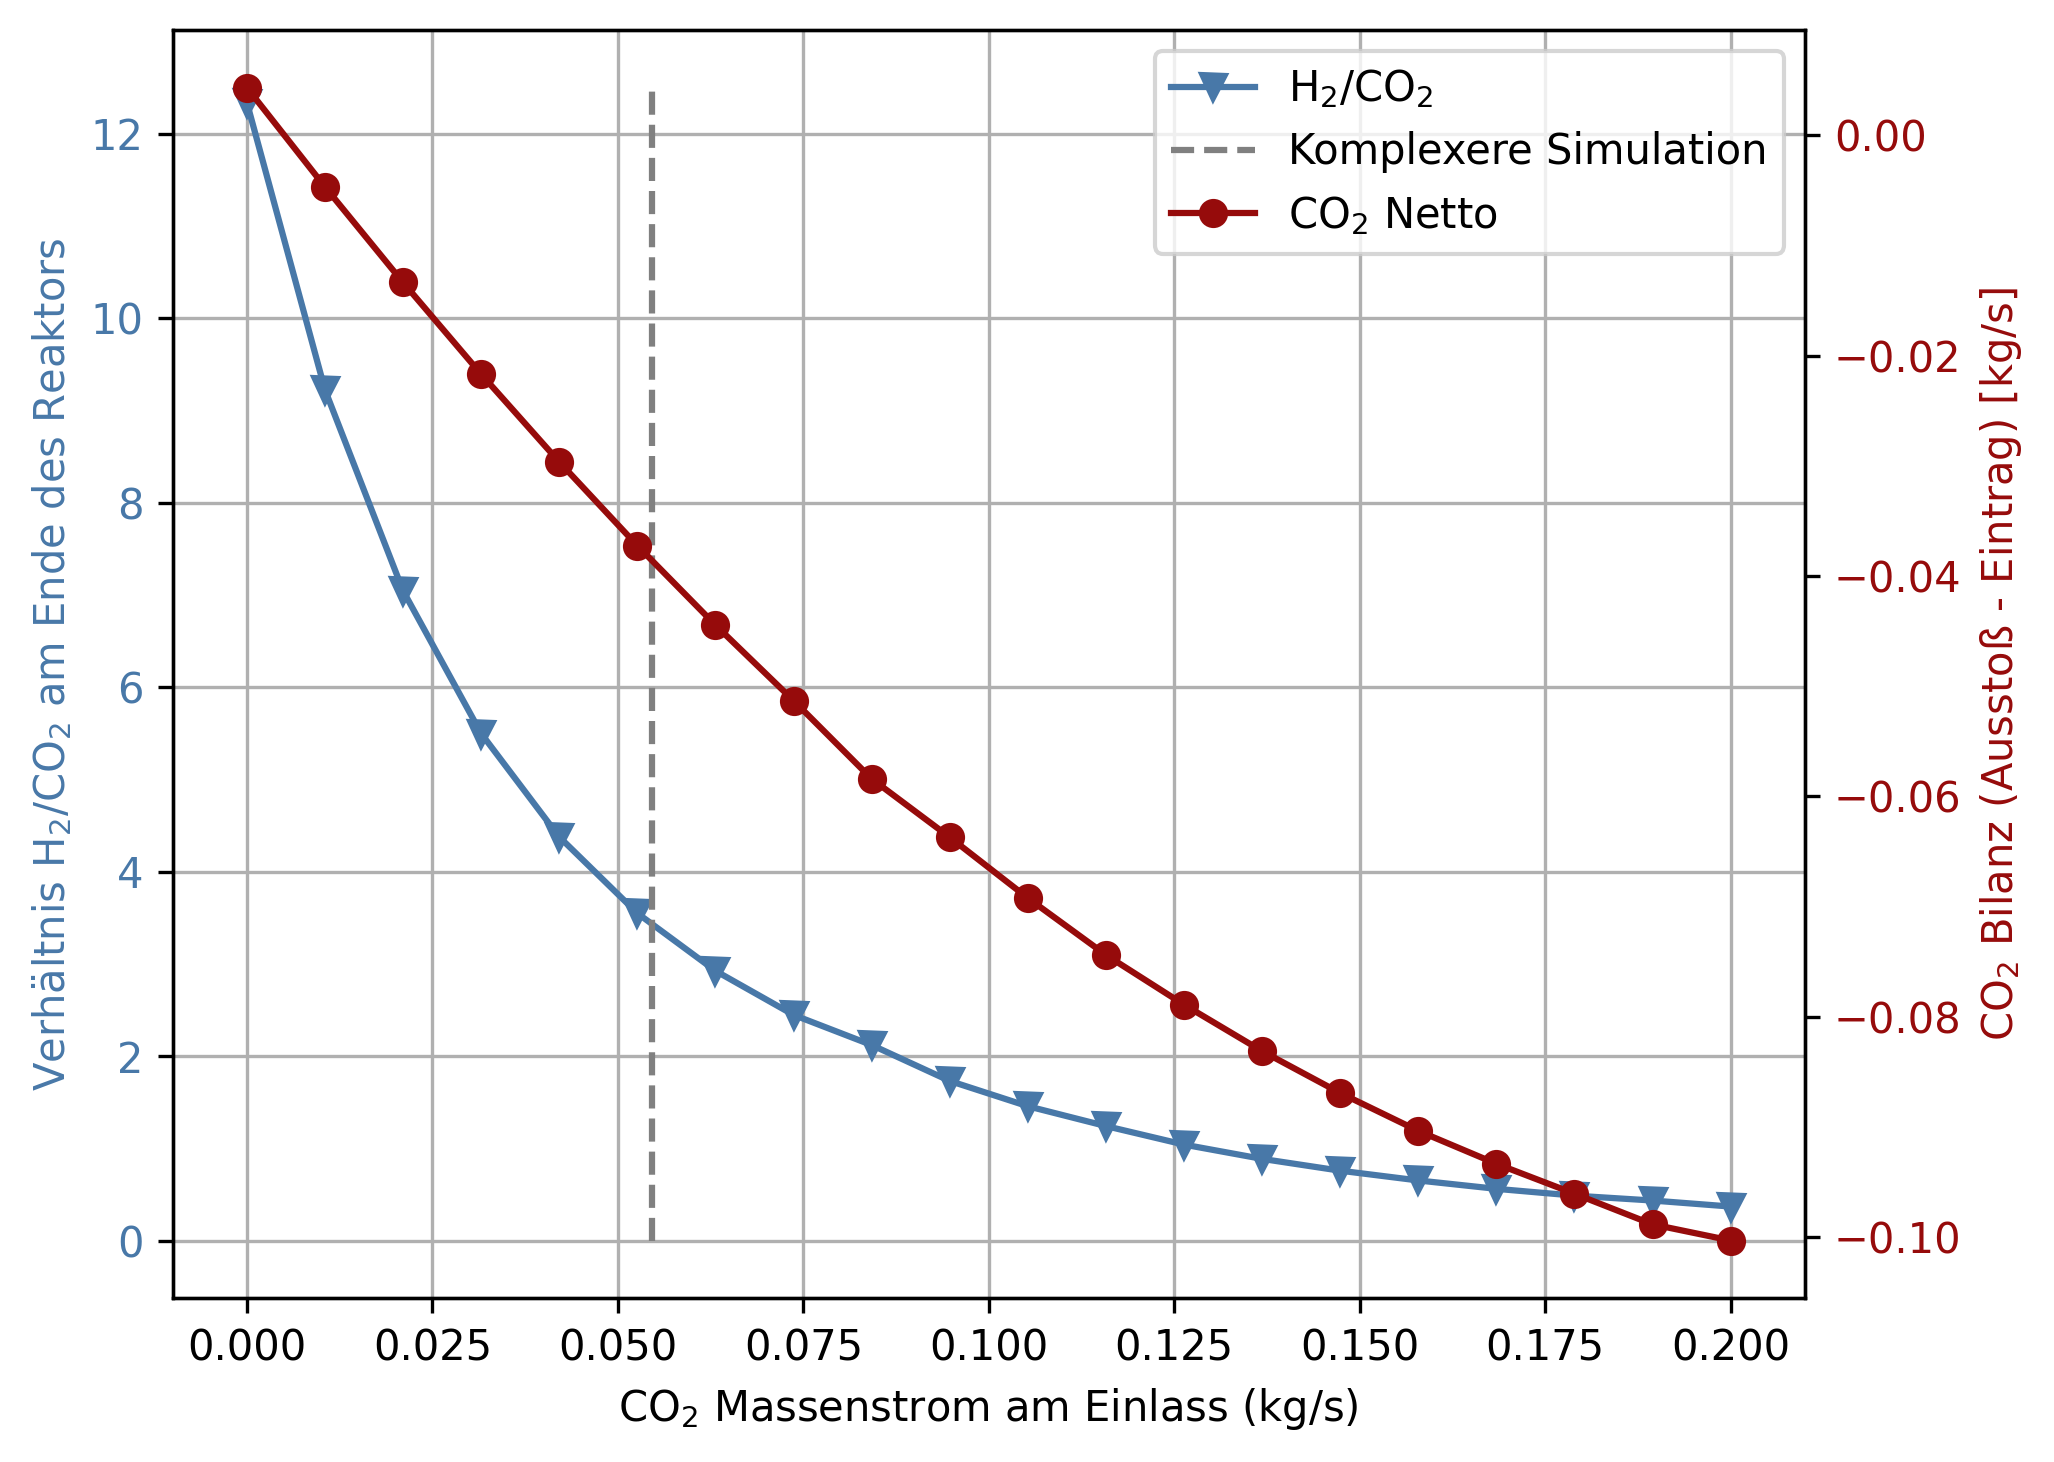
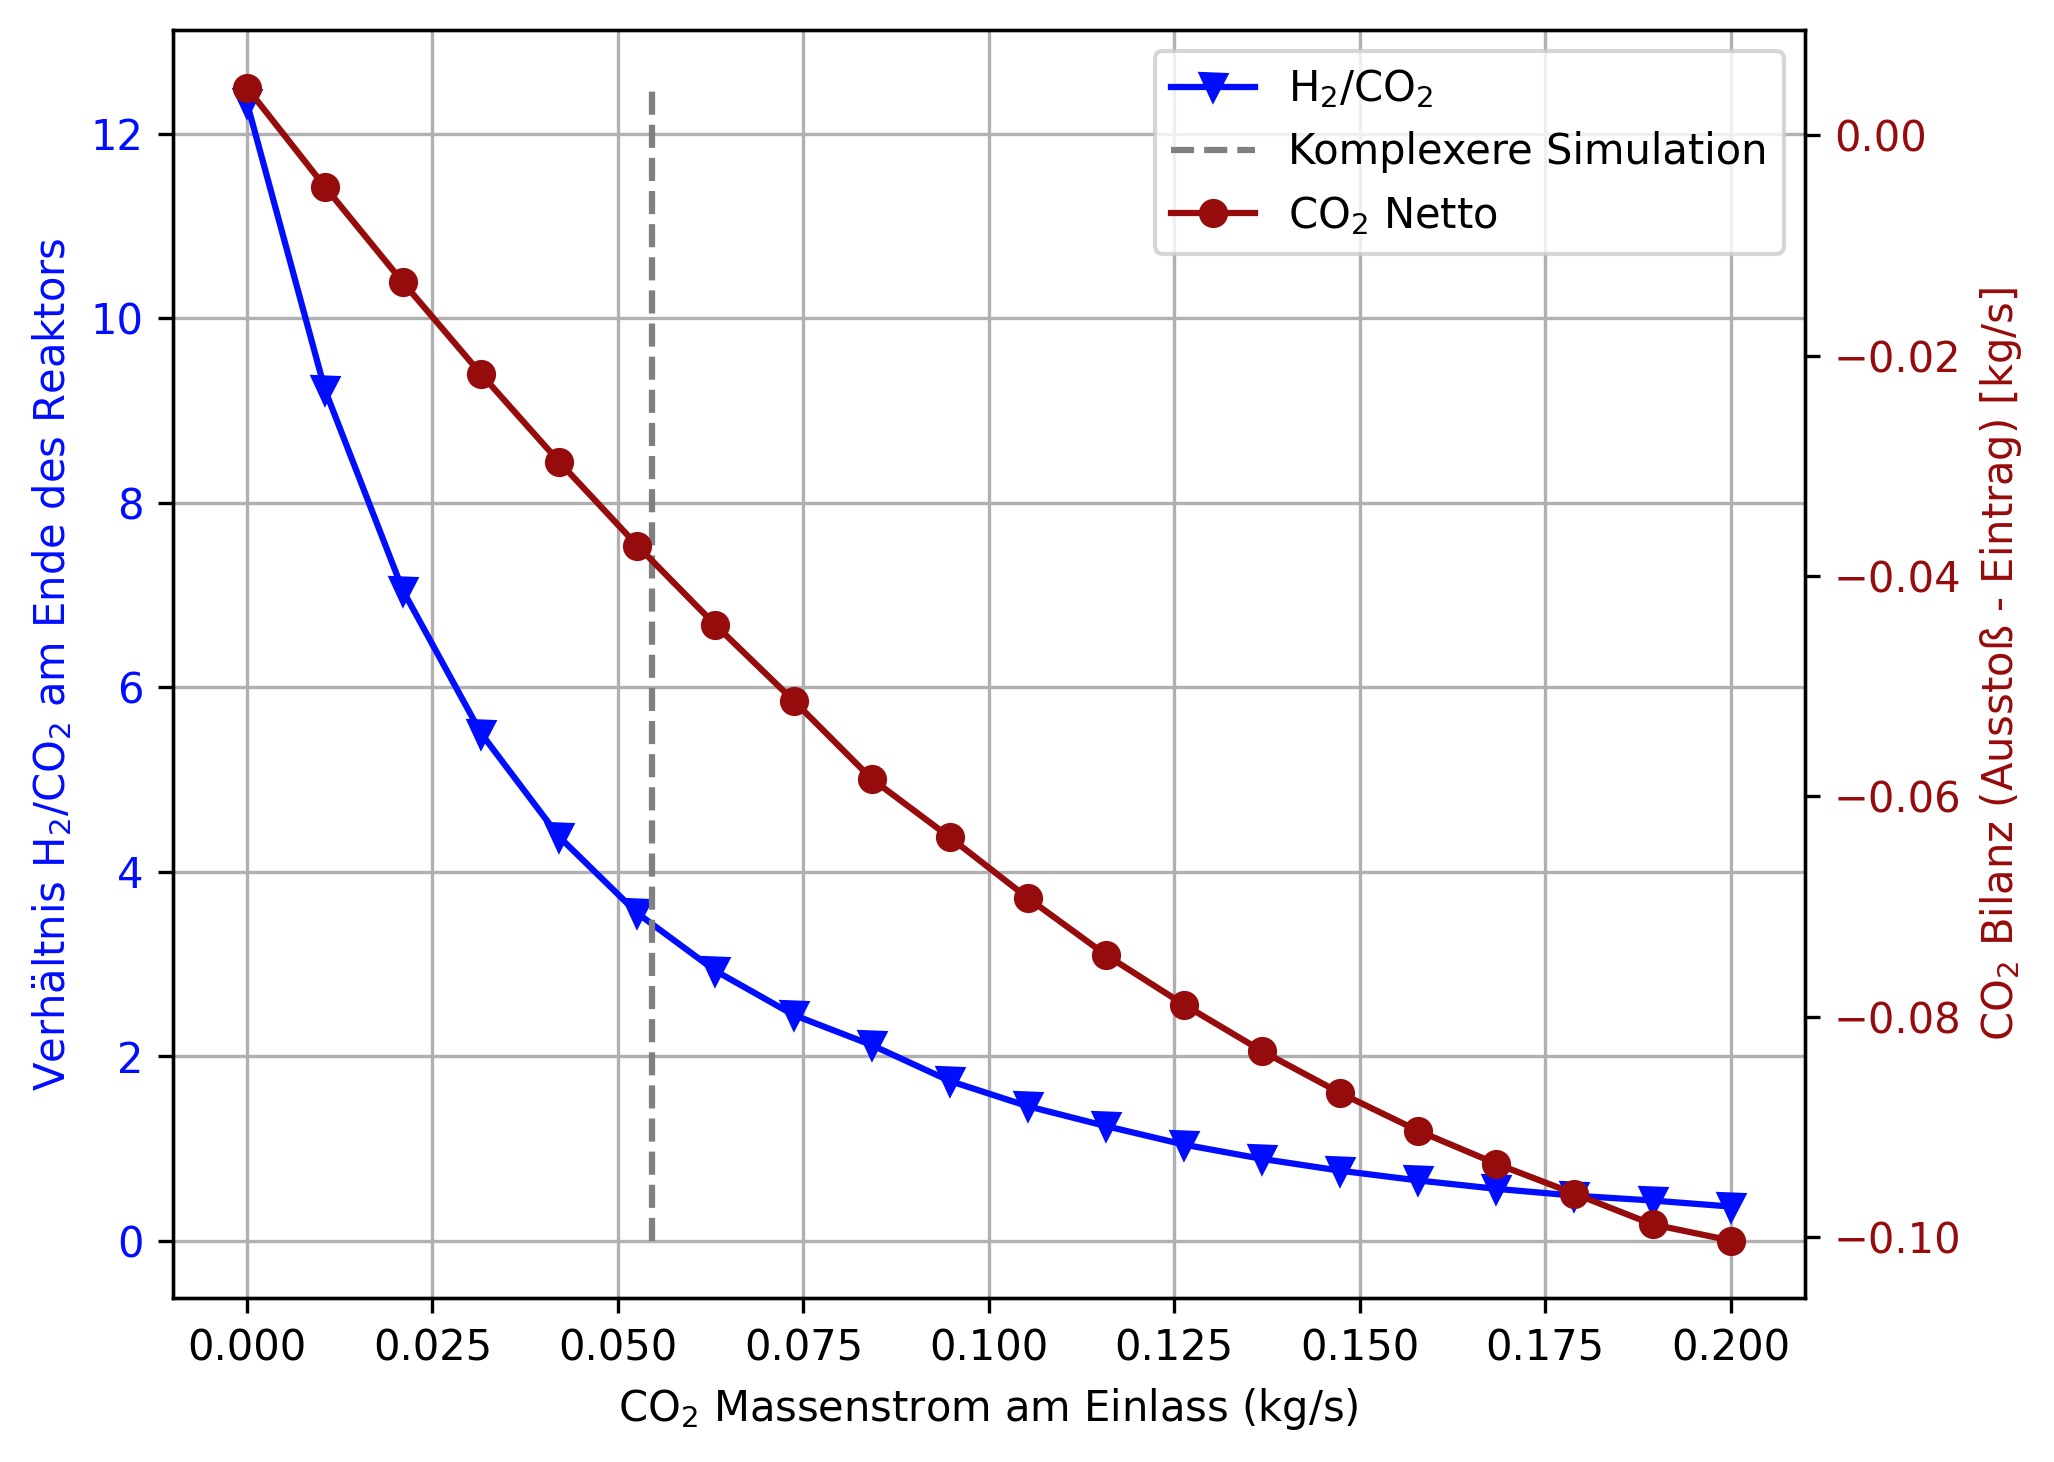
globale Farbänderung

diff --git a/Scripts/Auswertungen/Parameterstudie CO2/Auswertung_CO2.py b/Scripts/Auswertungen/Parameterstudie CO2/Auswertung_CO2.py
@@ -9,7 +9,14 @@ import unicodedata
 from matplotlib.collections import LineCollection
 
 import re 
-import glob 
+import glob
+import sys
+
+# Pfad zum Hauptordner hinzufügen
+sys.path.append(os.path.abspath(os.path.join(os.path.dirname(__file__), '../utils')))
+
+from colors import colors_new
+print(colors_new)
 
 color1 = '#4878A8'
 color2 = '#7E9680'
@@ -18,6 +25,12 @@ color4 = '#BC6C25'
 color5 = "#960B0B"
 color6 = "#077B1A"
 
+color1 = colors_new[0]
+color2 = colors_new[1]
+color3 = colors_new[2]
+color4 = colors_new[3]
+color5 = colors_new[4]
+color6 = colors_new[5]
 
 colors = [color1,color2,color3,color4,color5,color6]
 
@@ -143,6 +156,7 @@ plt.grid()
 plt.xlabel(r'CO$_2$ Massenstrom am Einlass (kg/s)')
 plt.ylabel(r'Molenbruch CH$_4$ am Ende des Reaktors')
 plt.vlines(x=[0.05455], ymin = 0, ymax = data_end_para[' Mole_fraction_CH4_PFRC2_end_point_()'][1:].max(), colors = "grey", linestyles="--", label="Komplexere Simulation")
+plt.vlines(x=[0.0842], ymin = 0, ymax = data_end_para[' Mole_fraction_CH4_PFRC2_end_point_()'][1:].max(), colors = "red", linestyles="--", label="Maximale Betriebsgrenze")
 #plt.show()
 plt.savefig('Bilder/Parameterstudie_CO2_CH4_Schlupf.png', dpi=300)
 

diff --git a/Scripts/Auswertungen/Vergleich_ChemistrySet/Auswertung_neu.py b/Scripts/Auswertungen/Vergleich_ChemistrySet/Auswertung_neu.py
@@ -12,22 +12,29 @@ from collections import OrderedDict
 from Latex_table import df_to_table
 
 #%% Farben für die Plots definieren
-# Diese Farben können angepasst werden, um die Lesbarkeit zu verbessern
+import sys
 
-color1 = '#1f77b4'
-color2 = '#2ca02c'
-color3 = "#3b3b3b"
-color4 = '#d62728'
+# Pfad zum Hauptordner hinzufügen
+sys.path.append(os.path.abspath(os.path.join(os.path.dirname(__file__), '../utils')))
+
+from colors import colors_new
+print(colors_new)
 
 color1 = '#4878A8'
 color2 = '#7E9680'
 color3 = '#B3B3B3'
 color4 = '#BC6C25'
-color5 = "#960B0B" 
+color5 = "#960B0B"
 color6 = "#077B1A"
 
-colors = [color1,color2,color3,color4,color5, color6]
-#colors = sb.color_palette("muted", 5)
+color1 = colors_new[0]
+color2 = colors_new[1]
+color3 = colors_new[2]
+color4 = colors_new[3]
+color5 = colors_new[4]
+color6 = colors_new[5]
+
+colors = [color1,color2,color3,color4,color5,color6]
 
 # Set the working directory to the location of the script
 script_dir = os.path.dirname(os.path.abspath(__file__))

diff --git a/Scripts/Auswertungen/Vergleich_CO2/Auswertung_CO2.py b/Scripts/Auswertungen/Vergleich_CO2/Auswertung_CO2.py
@@ -27,7 +27,6 @@ color2 = '#7E9680'
 color3 = '#B3B3B3'
 color4 = '#BC6C25'
 
-
 # Set the working directory to the location of the script
 script_dir = os.path.dirname(os.path.abspath(__file__))
 os.chdir(script_dir)
